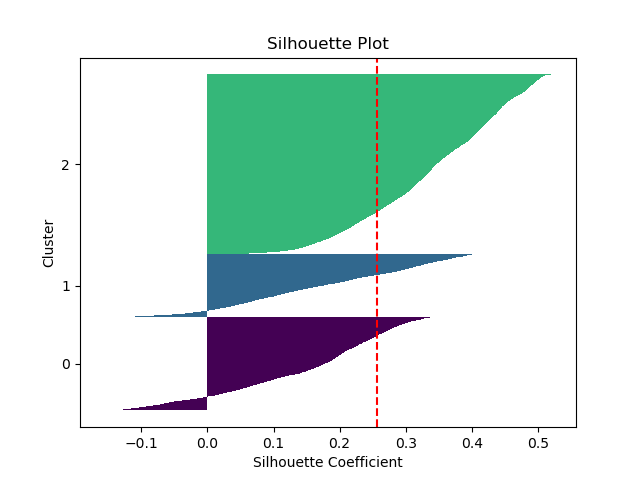
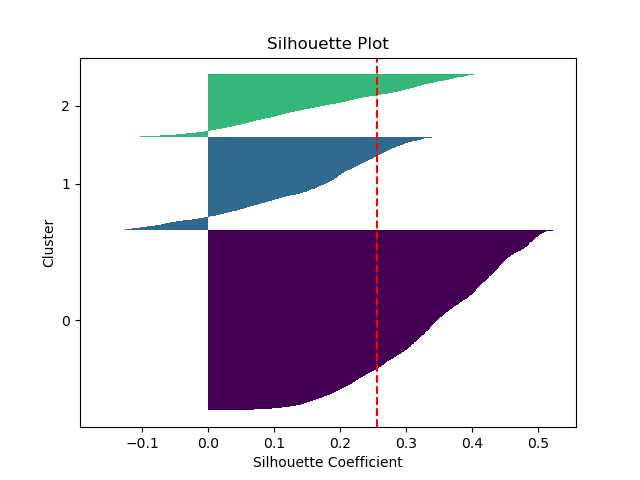
updates

diff --git a/src/models/unsupervised.py b/src/models/unsupervised.py
@@ -18,11 +18,13 @@ def preprocess_data(file_path):
 
     return pca_features
 
-def evaluate_clustering(X_train, labels):
-    silhouette = silhouette_score(X_train, labels)
+X_test = preprocess_data('./data/test.csv')
+
+def evaluate_clustering(X_test, labels):
+    silhouette = silhouette_score(X_test, labels)
     print('silhouette_score:', f'{silhouette:.4f}')
 
-    silhouette_vals = silhouette_samples(X_train, labels)
+    silhouette_vals = silhouette_samples(X_test, labels)
     y_ticks = []
     y_lower, y_upper = 0, 0
 
@@ -43,5 +45,3 @@ def evaluate_clustering(X_train, labels):
     plt.ylabel('Cluster')
     plt.title('Silhouette Plot')
     plt.show()
-
-X_test = preprocess_data('./data/test.csv')

diff --git a/src/models/supervised.py b/src/models/supervised.py
@@ -23,6 +23,9 @@ def preprocess_data(file_path):
 
     return pca_features, target
 
+X_train, y_train = preprocess_data('./data/train.csv')
+X_test, y_test = preprocess_data('./data/test.csv')
+
 def evaluate_classification(model, X_train, y_train, X_test, y_test, cv):
     y_pred = model.predict(X_test)
     report = classification_report(y_test, y_pred)
@@ -37,6 +40,3 @@ def evaluate_classification(model, X_train, y_train, X_test, y_test, cv):
     plt.xlabel('Predicted Label')
     plt.ylabel('True Label')
     plt.show()
-
-X_train, y_train = preprocess_data('./data/train.csv')
-X_test, y_test = preprocess_data('./data/test.csv')

diff --git a/src/models/kmeans.py b/src/models/kmeans.py
@@ -1,7 +1,7 @@
 from sklearn.cluster import KMeans
 from unsupervised import X_test, evaluate_clustering
 
-kmeans = KMeans(n_clusters=2)
+kmeans = KMeans(n_clusters=3)
 kmeans.fit(X_test)
 labels = kmeans.predict(X_test)
 
